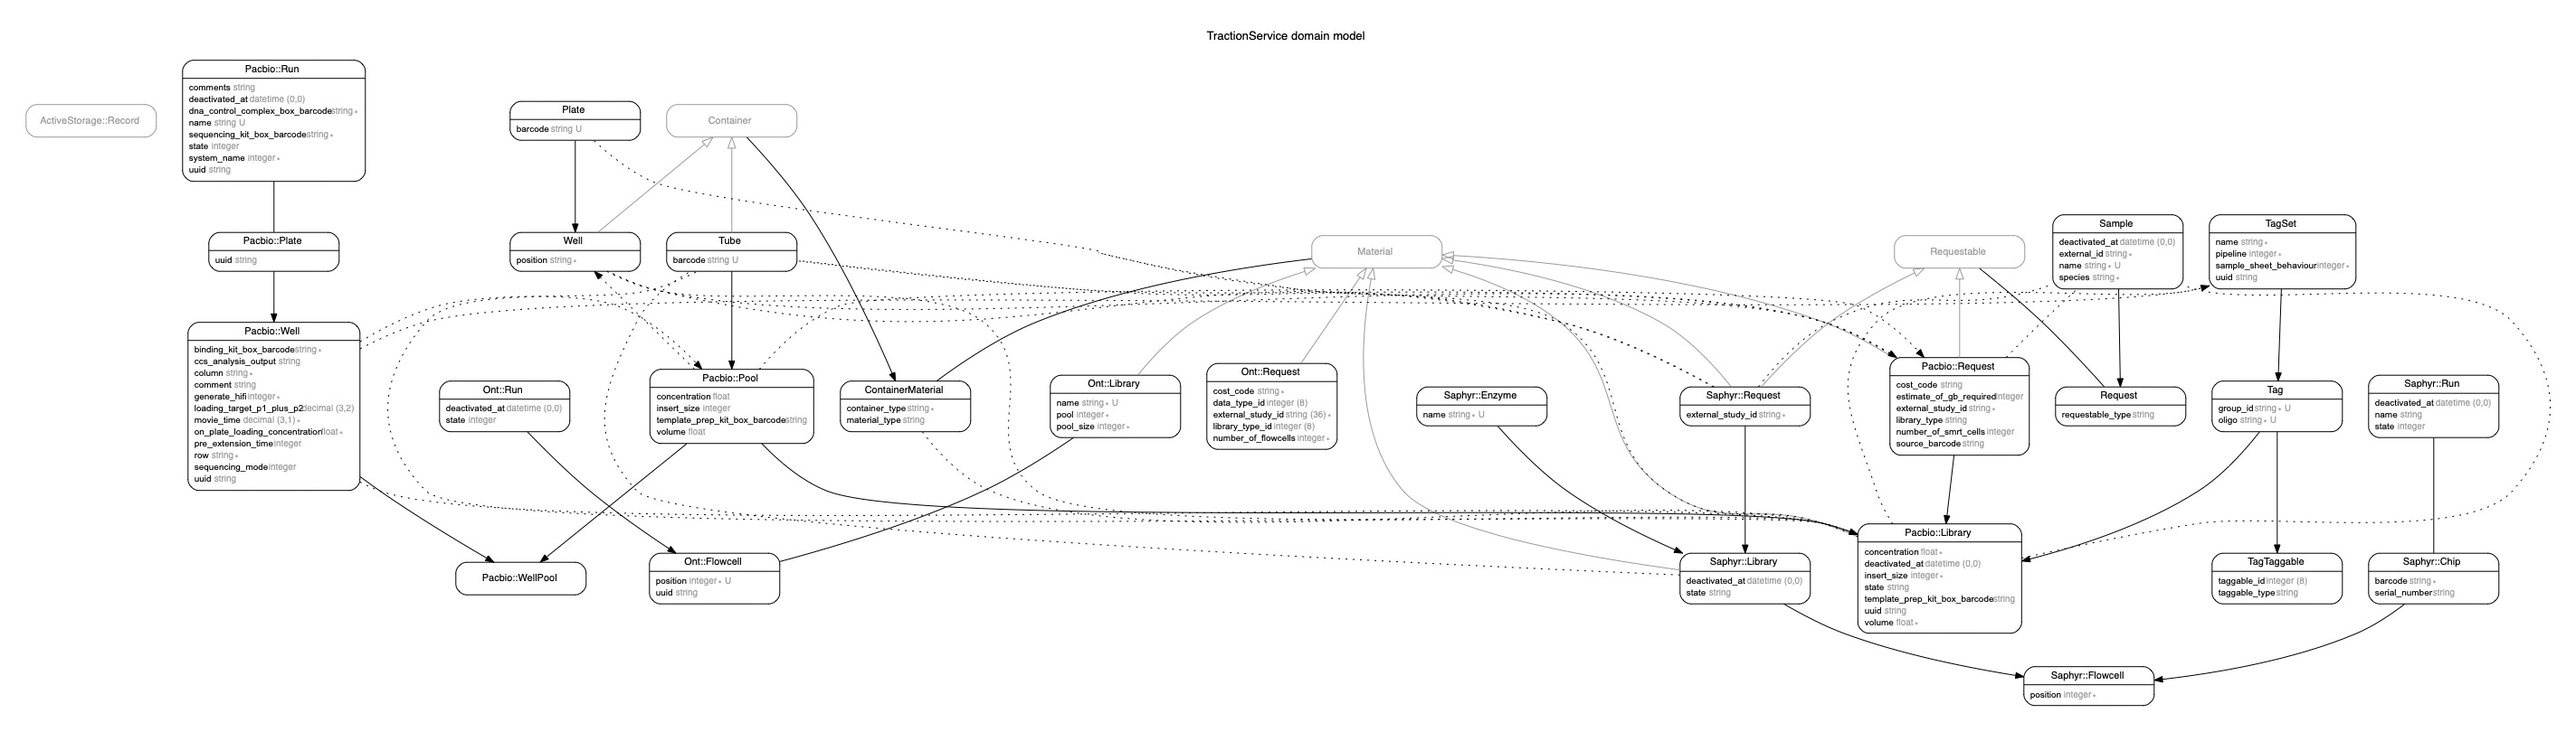
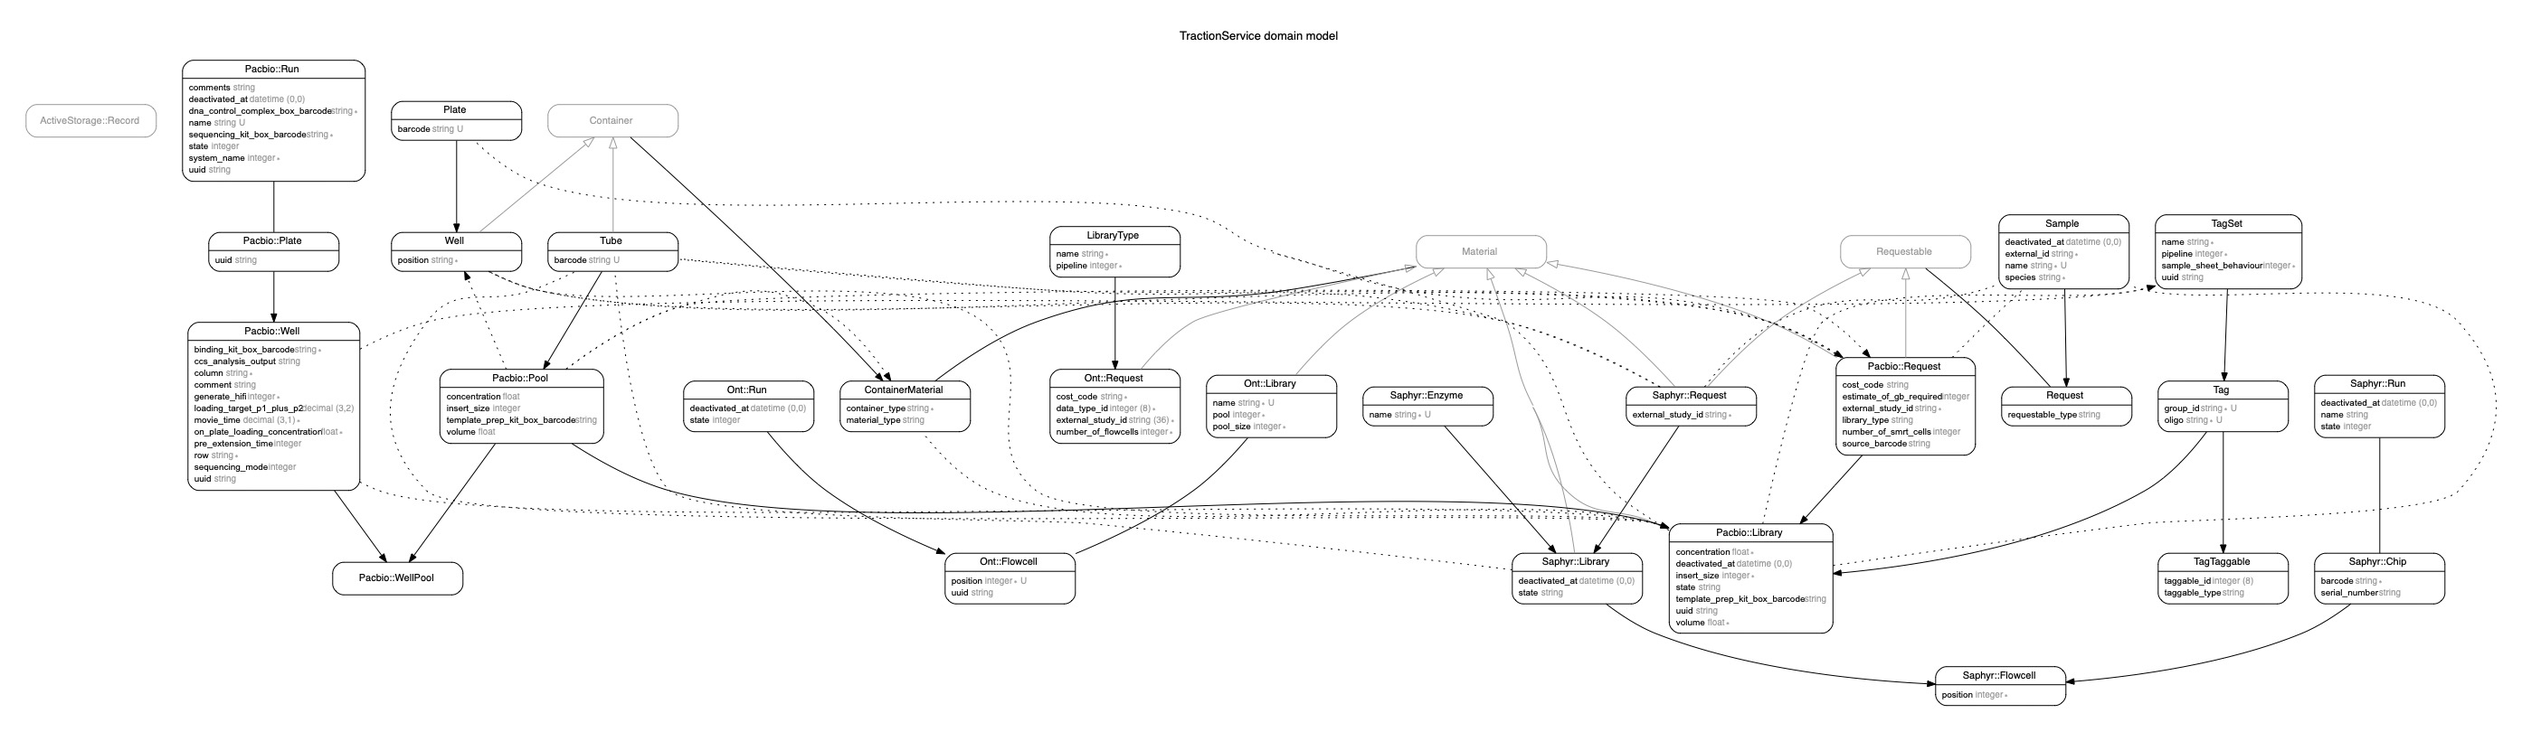
Add library type as first-class citizen
Previously library type has been confined to a string in the pacbio
table.

Here we promote it to a Record, that we can then link via foreign key.
We've already set up the schema for this in the last commit.

This change lets us normalize the database, but also adds context
to better validate library type, and begin linking library types to
pipelines.

diff --git a/db/schema.rb b/db/schema.rb
@@ -10,7 +10,7 @@
 #
 # It's strongly recommended that you check this file into your version control system.
 
-ActiveRecord::Schema[7.0].define(version: 2022_06_09_141912) do
+ActiveRecord::Schema[7.0].define(version: 2022_06_10_094346) do
   create_table "container_materials", charset: "utf8mb3", force: :cascade do |t|
     t.string "container_type", null: false
     t.bigint "container_id", null: false
@@ -45,6 +45,7 @@ ActiveRecord::Schema[7.0].define(version: 2022_06_09_141912) do
     t.integer "pipeline", null: false
     t.datetime "created_at", null: false
     t.datetime "updated_at", null: false
+    t.index ["pipeline", "name"], name: "index_library_types_on_pipeline_and_name", unique: true
     t.index ["pipeline"], name: "index_library_types_on_pipeline"
   end
 

diff --git a/spec/models/library_type_spec.rb b/spec/models/library_type_spec.rb
@@ -1,0 +1,25 @@
+# frozen_string_literal: true
+
+require 'rails_helper'
+
+RSpec.describe LibraryType, type: :model do
+  describe '#name' do
+    it 'must be present' do
+      expect(build(:library_type, name: nil)).not_to be_valid
+    end
+
+    it 'must be unique within a pipeline' do
+      create(:library_type, name: 'example')
+      expect(build(:library_type, name: 'example')).not_to be_valid
+    end
+
+    it 'can be shared between pipelines' do
+      create(:library_type, name: 'example', pipeline: :pacbio)
+      expect(build(:library_type, name: 'example', pipeline: :ont)).to be_valid
+    end
+  end
+
+  it 'must have a pipeline' do
+    expect(build(:library_type, pipeline: nil)).not_to be_valid
+  end
+end

diff --git a/app/pipelines/pipelines.rb b/app/pipelines/pipelines.rb
@@ -4,6 +4,12 @@
 # A Pipeline is a series of steps that are required to prepare sample material
 # for sequencing
 module Pipelines
+  # In a number of models we associate records with a pipeline, via an enum
+  # In order to maintain consistent numbering, this has been pulled out into
+  # a constant. Please do *not* remove entries from this list, as it could
+  # result in legacy data being reassigned to the incorrect pipelines
+  ENUMS = { pacbio: 0, ont: 1, saphyr: 2 }.freeze
+
   # InstanceMethodCreator
   module InstanceMethodCreator
     # Creates an instance method in the included class

diff --git a/db/migrate/20220610094346_add_uniqueness_contrataint_to_library_type_name.rb b/db/migrate/20220610094346_add_uniqueness_contrataint_to_library_type_name.rb
@@ -1,0 +1,11 @@
+# frozen_string_literal: true
+
+# Rubocop want us to add a uniqueness constraint to the database. In practice
+# we're unlikely to reap much form the performance or data-integrity issues,
+# this will be a low volume rarely changing table, but there could be risks
+# of concurrency problems running tasks on deployment.
+class AddUniquenessContrataintToLibraryTypeName < ActiveRecord::Migration[7.0]
+  def change
+    add_index :library_types, %i[pipeline name], unique: true
+  end
+end

diff --git a/app/models/library_type.rb b/app/models/library_type.rb
@@ -1,0 +1,11 @@
+# frozen_string_literal: true
+
+# A library type sub-divides pipelines into different products, identifying the
+# protocol that has been performed. They are exposed downstream, and can affect
+# the analysis performed by NPG.
+class LibraryType < ApplicationRecord
+  enum pipeline: Pipelines::ENUMS, _suffix: true
+
+  validates :pipeline, presence: true
+  validates :name, presence: true, uniqueness: { scope: :pipeline }
+end

diff --git a/app/models/tag_set.rb b/app/models/tag_set.rb
@@ -5,7 +5,7 @@
 class TagSet < ApplicationRecord
   has_many :tags, dependent: :restrict_with_error
 
-  enum pipeline: { pacbio: 0, ont: 1, saphyr: 2 }, _suffix: true
+  enum pipeline: Pipelines::ENUMS, _suffix: true
   enum sample_sheet_behaviour: { default: 0, hidden: 1 }, _suffix: true
 
   validates :name, presence: true

diff --git a/spec/factories/library_types.rb b/spec/factories/library_types.rb
@@ -1,0 +1,16 @@
+# frozen_string_literal: true
+
+FactoryBot.define do
+  factory :library_type do
+    sequence(:name) { |n| "Library Type #{n}" }
+    pipeline { :pacbio }
+
+    trait :ont do
+      pipeline { :ont }
+    end
+
+    trait :pacbio do
+      pipeline { :pacbio }
+    end
+  end
+end
